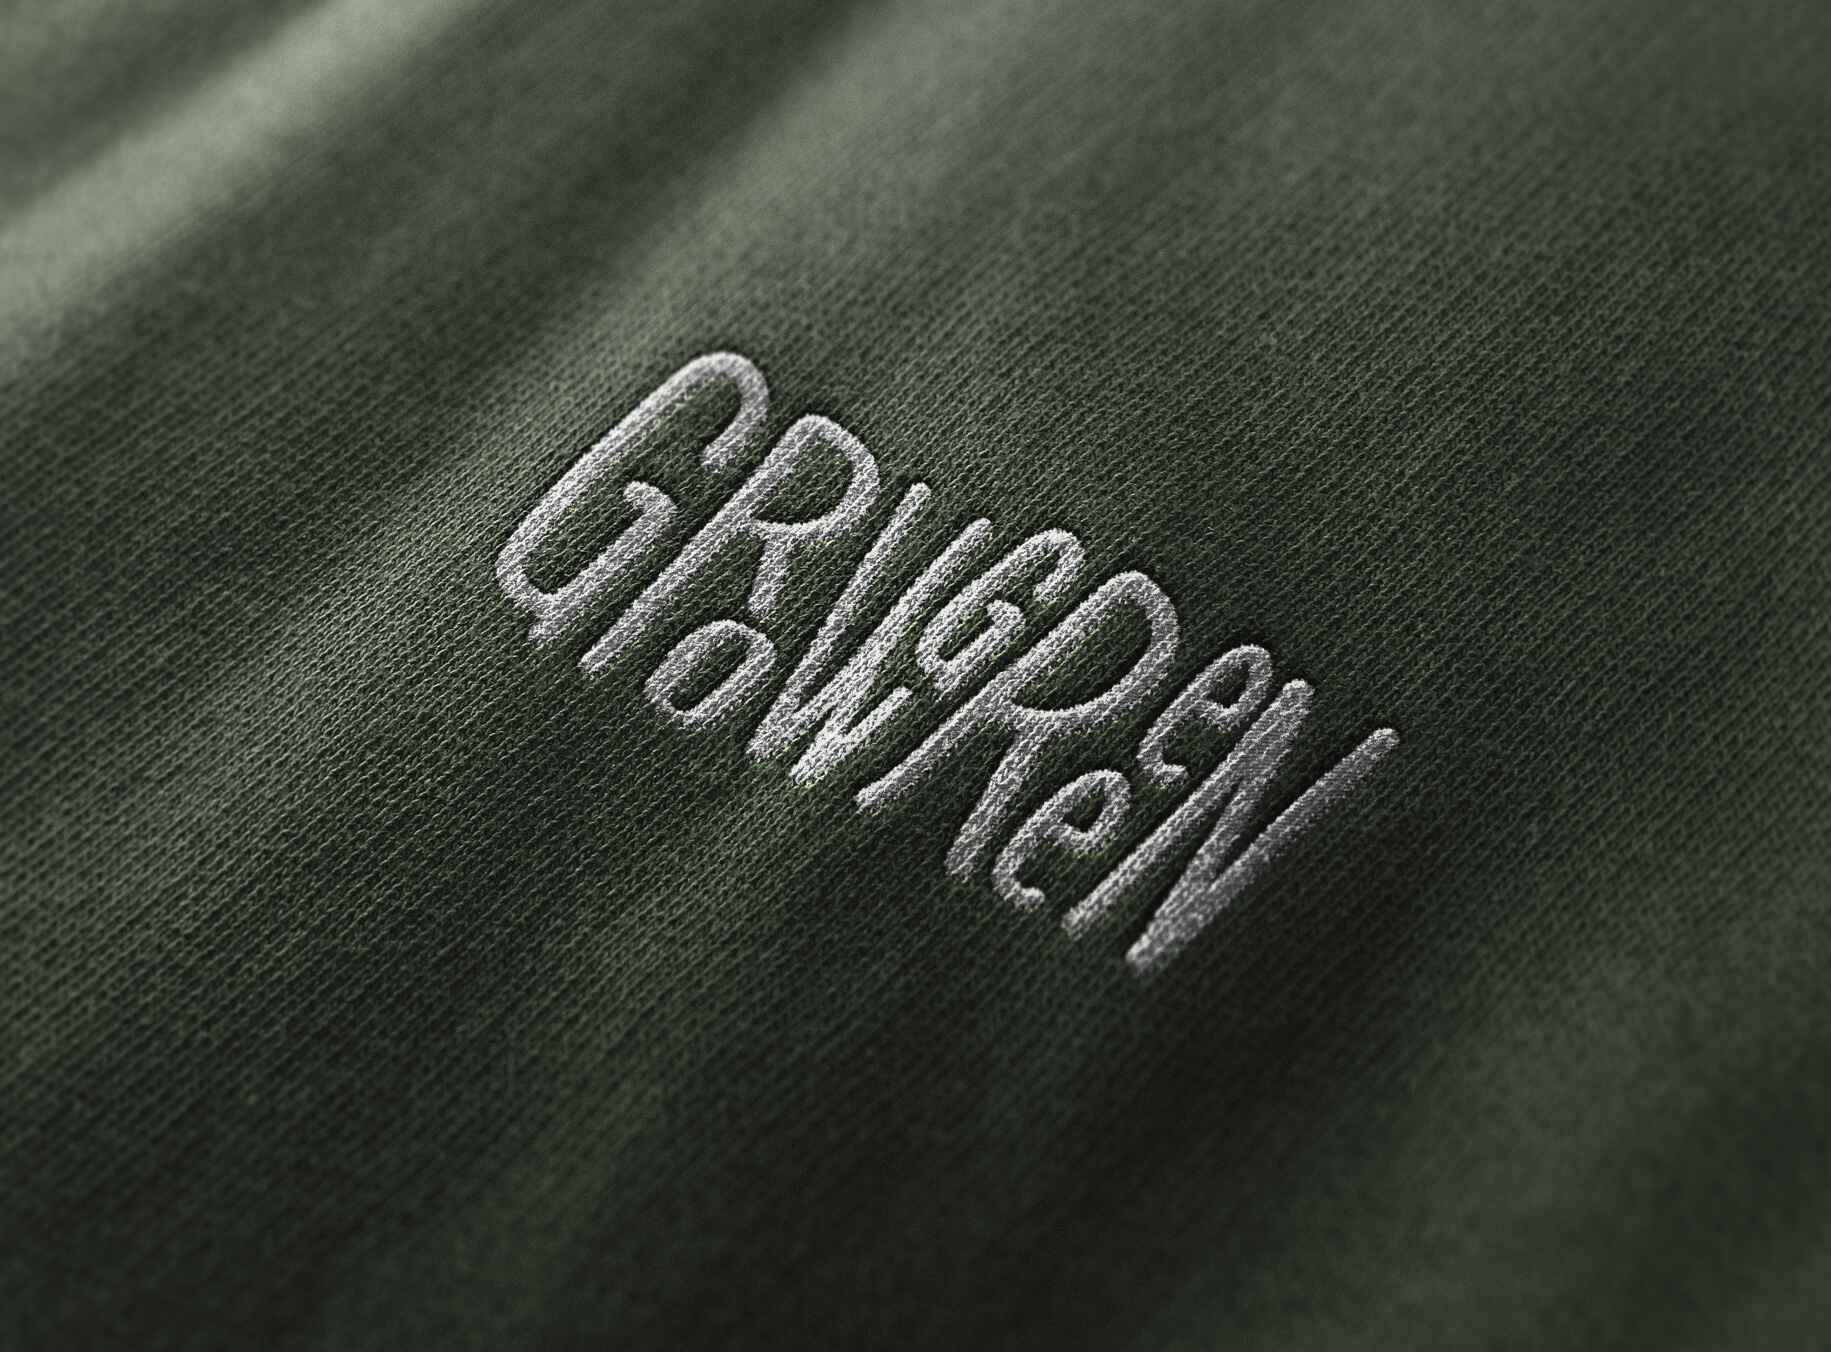
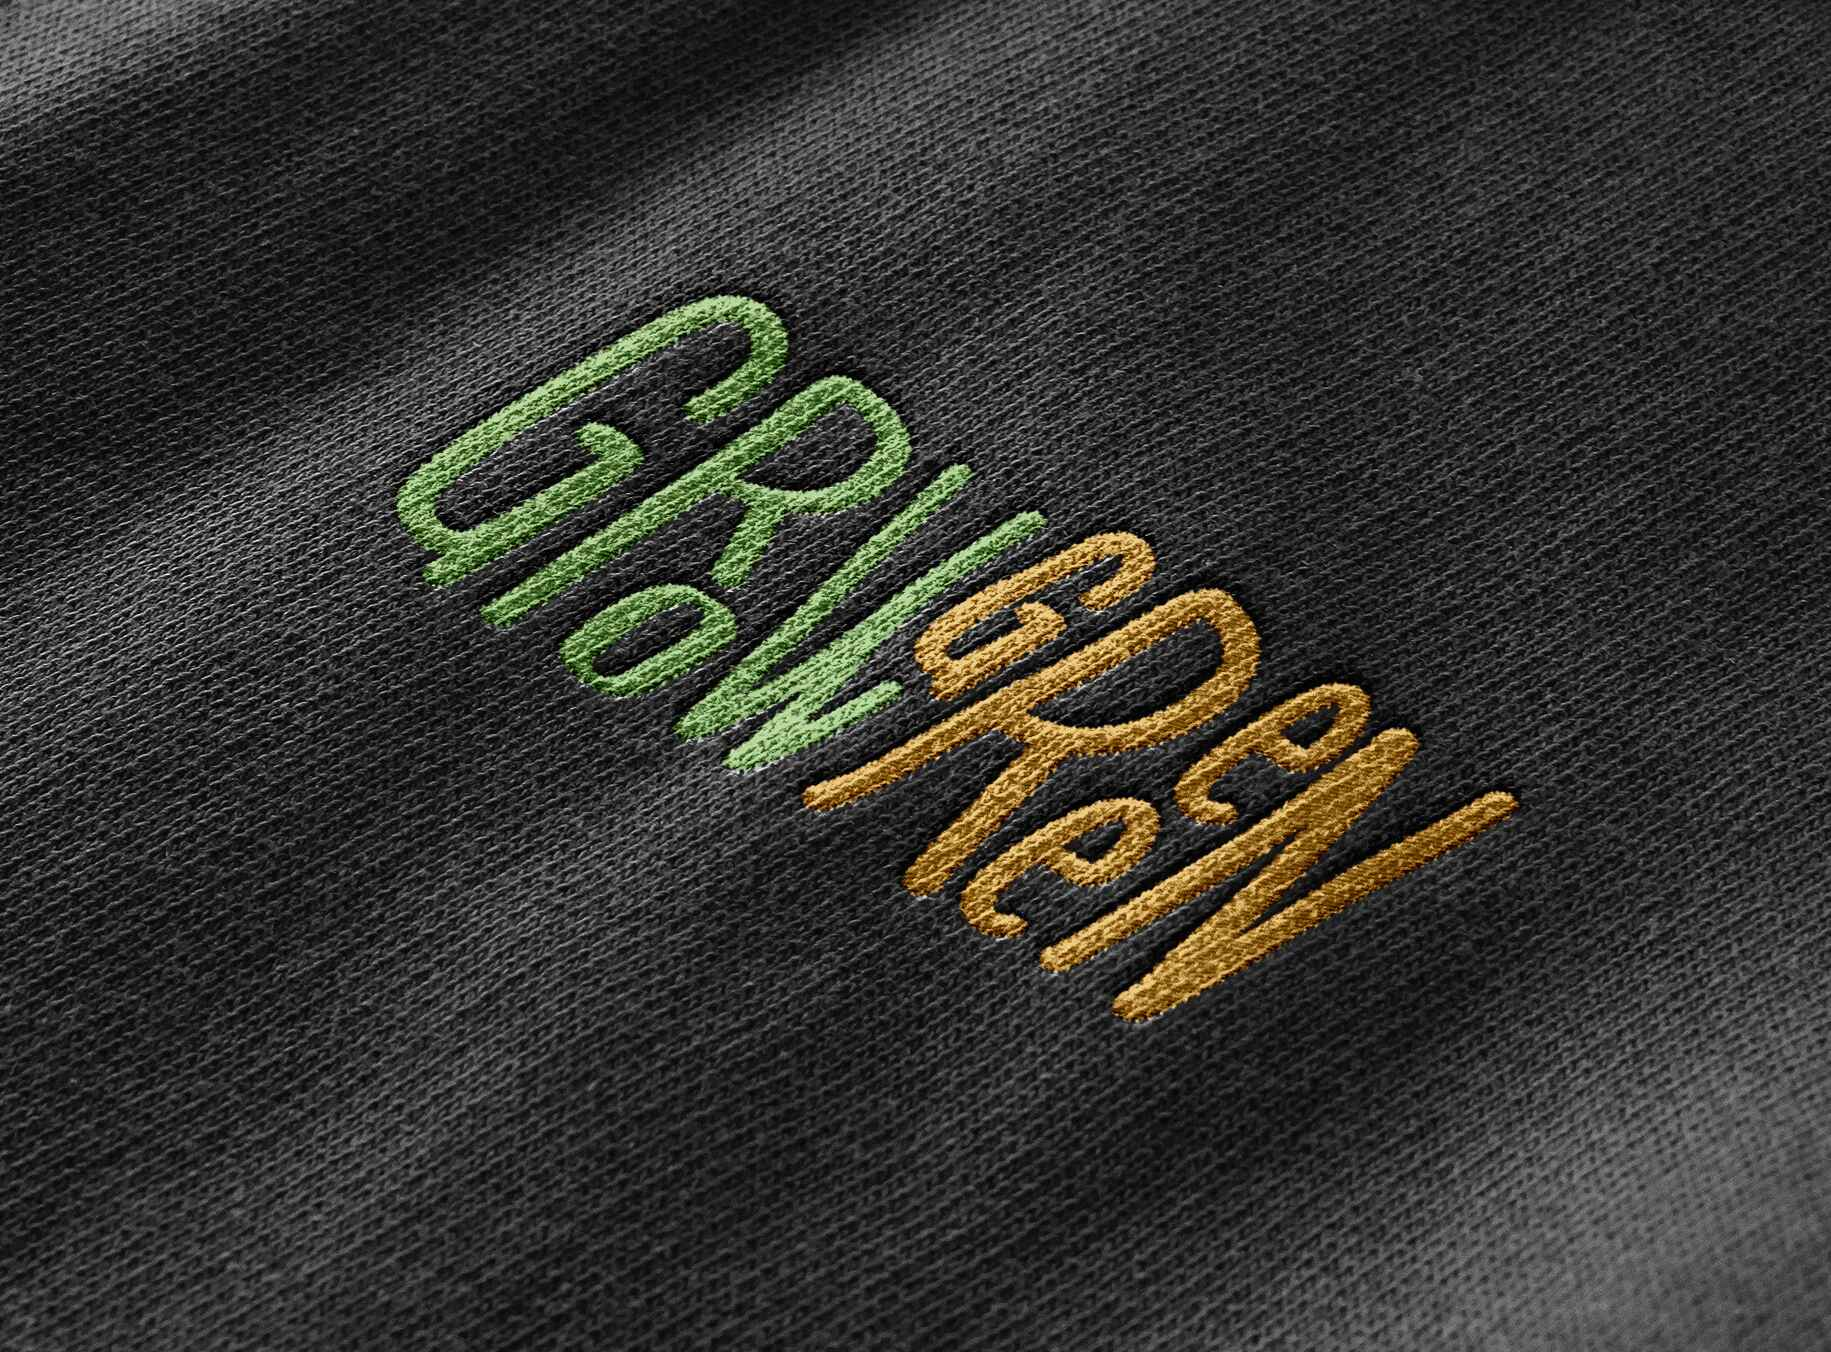
GrowGreen Project

diff --git a/index.html b/index.html
@@ -21,7 +21,7 @@
 
         <div class="tool-icons-bar">
             <div class="tool-icon-group">
-                <span class="icon-separator">|</span><span class="icon"><img src="https://www.svgrepo.com/show/135822/home-icon-silhouette.svg" alt="Home" style="filter: invert(100%) drop-shadow(3px 3px 1.5px rgba(0, 0, 0, 0.7)); width: 24px; height: 24px;"></span><span class="icon-separator">|</span><span class="icon"><img src="https://www.svgrepo.com/show/485640/brush.svg" alt="Brush" style="filter: invert(100%) drop-shadow(3px 3px 1.5px rgba(0, 0, 0, 0.7)); width: 24px; height: 24px;"></span><span class="icon"><svg xmlns="http://www.w3.org/2000/svg" viewBox="0 0 24 24" fill="currentColor" style="width: 24px; height: 24px;"><path d="M7 10l5 5 5-5z"/></svg></span><span class="icon-separator">|</span><span class="icon"><div style="display: flex; flex-direction: column; align-items: center; gap: 2px;"><img src="https://www.svgrepo.com/show/535262/circle.svg" alt="Circle" style="filter: invert(100%) drop-shadow(3px 3px 1.5px rgba(0, 0, 0, 0.7)); width: 18px; height: 18px;"><span style="font-size: 10px;">23</span></div></span><span class="icon"><svg xmlns="http://www.w3.org/2000/svg" viewBox="0 0 24 24" fill="currentColor" style="width: 24px; height: 24px;"><path d="M7 10l5 5 5-5z"/></svg></span><span class="icon"><img src="https://www.svgrepo.com/show/26369/paint-tool.svg" alt="Paint Tool" style="filter: invert(100%) drop-shadow(3px 3px 1.5px rgba(0, 0, 0, 0.7)); width: 24px; height: 24px;"></span><span class="icon-separator">|</span><span class="icon">Mode: <div style="background-color: white; color: black; padding: 2px 5px; border-radius: 3px; display: inline-flex; align-items: center; gap: 5px;">Normal <svg class="dropdown-arrow" xmlns="http://www.w3.org/2000/svg" viewBox="0 0 24 24" fill="black" style="width: 16px; height: 16px;"><path d="M7 10l5 5 5-5z"/></svg></div></span><span class="icon-separator">|</span><span class="icon">Opacity: <div style="background-color: white; color: black; padding: 2px 5px; border-radius: 3px; display: inline-flex; align-items: center; gap: 5px;">66% <svg class="dropdown-arrow" xmlns="http://www.w3.org/2000/svg" viewBox="0 0 24 24" fill="black" style="width: 16px; height: 16px;"><path d="M7 10l5 5 5-5z"/></svg></div></span><span class="icon-separator">|</span><span class="icon">Flow: <div style="background-color: white; color: black; padding: 2px 5px; border-radius: 3px; display: inline-flex; align-items: center; gap: 5px;">88% <svg class="dropdown-arrow" xmlns="http://www.w3.org/2000/svg" viewBox="0 0 24 24" fill="black" style="width: 16px; height: 16px;"><path d="M7 10l5 5 5-5z"/></svg></div></span><span class="icon-separator">|</span><span class="icon">Smoothing: <div style="background-color: white; color: black; padding: 2px 5px; border-radius: 3px; display: inline-flex; align-items: center; gap: 5px;">10% <svg class="dropdown-arrow" xmlns="http://www.w3.org/2000/svg" viewBox="0 0 24 24" fill="black" style="width: 16px; height: 16px;"><path d="M7 10l5 5 5-5z"/></svg></div></span><span class="icon-separator">|</span><span class="icon">Angle: <div style="background-color: white; color: black; padding: 2px 5px; border-radius: 3px; display: inline-flex; align-items: center; gap: 5px;">0° <svg class="dropdown-arrow" xmlns="http://www.w3.org/2000/svg" viewBox="0 0 24 24" fill="black" style="width: 16px; height: 16px;"><path d="M7 10l5 5 5-5z"/></svg></div></span><span class="icon"><img src="https://www.svgrepo.com/show/383430/angle.svg" alt="Angle" style="filter: invert(100%) drop-shadow(3px 3px 1.5px rgba(0, 0, 0, 0.7)); width: 24px; height: 24px;"></span><span class="icon-separator">|</span><span class="icon"><img src="https://www.svgrepo.com/show/486391/cogwheel-filled.svg" alt="Settings" style="filter: invert(100%) drop-shadow(3px 3px 1.5px rgba(0, 0, 0, 0.7)); width: 24px; height: 24px;"></span><span class="icon"><svg xmlns="http://www.w3.org/2000/svg" viewBox="0 0 24 24" fill="currentColor"><path d="M7 10l5 5 5-5z"/></svg></span>
+                <span class="icon-separator">|</span><span class="icon"><img src="https://www.svgrepo.com/show/135822/home-icon-silhouette.svg" alt="Home" style="filter: invert(100%) drop-shadow(3px 3px 1.5px rgba(0, 0, 0, 0.7)); width: 24px; height: 24px;"></span><span class="icon-separator">|</span><span class="icon"><img src="https://www.svgrepo.com/show/485640/brush.svg" alt="Brush" style="filter: invert(100%) drop-shadow(3px 3px 1.5px rgba(0, 0, 0, 0.7)); width: 24px; height: 24px;"></span><span class="icon"><svg xmlns="http://www.w3.org/2000/svg" viewBox="0 0 24 24" fill="currentColor" style="width: 24px; height: 24px;"><path d="M7 10l5 5 5-5z"/></svg></span><span class="icon-separator">|</span><span class="icon"><div style="display: flex; flex-direction: column; align-items: center; gap: 2px;"><img src="https://www.svgrepo.com/show/535262/circle.svg" alt="Circle" style="filter: invert(100%) drop-shadow(3px 3px 1.5px rgba(0, 0, 0, 0.7)); width: 18px; height: 18px;"></div></span><span class="icon"><svg xmlns="http://www.w3.org/2000/svg" viewBox="0 0 24 24" fill="currentColor" style="width: 24px; height: 24px;"><path d="M7 10l5 5 5-5z"/></svg></span><span class="icon"><img src="https://www.svgrepo.com/show/26369/paint-tool.svg" alt="Paint Tool" style="filter: invert(100%) drop-shadow(3px 3px 1.5px rgba(0, 0, 0, 0.7)); width: 24px; height: 24px;"></span><span class="icon-separator">|</span><span class="icon">Mode: <div style="background-color: white; color: black; padding: 2px 5px; border-radius: 3px; display: inline-flex; align-items: center; gap: 5px;">Normal <svg class="dropdown-arrow" xmlns="http://www.w3.org/2000/svg" viewBox="0 0 24 24" fill="black" style="width: 16px; height: 16px;"><path d="M7 10l5 5 5-5z"/></svg></div></span><span class="icon-separator">|</span><span class="icon">Opacity: <div style="background-color: white; color: black; padding: 2px 5px; border-radius: 3px; display: inline-flex; align-items: center; gap: 5px;">66% <svg class="dropdown-arrow" xmlns="http://www.w3.org/2000/svg" viewBox="0 0 24 24" fill="black" style="width: 16px; height: 16px;"><path d="M7 10l5 5 5-5z"/></svg></div></span><span class="icon-separator">|</span><span class="icon">Flow: <div style="background-color: white; color: black; padding: 2px 5px; border-radius: 3px; display: inline-flex; align-items: center; gap: 5px;">88% <svg class="dropdown-arrow" xmlns="http://www.w3.org/2000/svg" viewBox="0 0 24 24" fill="black" style="width: 16px; height: 16px;"><path d="M7 10l5 5 5-5z"/></svg></div></span><span class="icon-separator">|</span><span class="icon">Smoothing: <div style="background-color: white; color: black; padding: 2px 5px; border-radius: 3px; display: inline-flex; align-items: center; gap: 5px;">10% <svg class="dropdown-arrow" xmlns="http://www.w3.org/2000/svg" viewBox="0 0 24 24" fill="black" style="width: 16px; height: 16px;"><path d="M7 10l5 5 5-5z"/></svg></div></span><span class="icon-separator">|</span><span class="icon">Angle: <div style="background-color: white; color: black; padding: 2px 5px; border-radius: 3px; display: inline-flex; align-items: center; gap: 5px;">0° <svg class="dropdown-arrow" xmlns="http://www.w3.org/2000/svg" viewBox="0 0 24 24" fill="black" style="width: 16px; height: 16px;"><path d="M7 10l5 5 5-5z"/></svg></div></span><span class="icon"><img src="https://www.svgrepo.com/show/383430/angle.svg" alt="Angle" style="filter: invert(100%) drop-shadow(3px 3px 1.5px rgba(0, 0, 0, 0.7)); width: 24px; height: 24px;"></span><span class="icon-separator">|</span><span class="icon"><img src="https://www.svgrepo.com/show/486391/cogwheel-filled.svg" alt="Settings" style="filter: invert(100%) drop-shadow(3px 3px 1.5px rgba(0, 0, 0, 0.7)); width: 24px; height: 24px;"></span><span class="icon"><svg xmlns="http://www.w3.org/2000/svg" viewBox="0 0 24 24" fill="currentColor"><path d="M7 10l5 5 5-5z"/></svg></span>
             </div>
         </div>
 

diff --git a/projects.js b/projects.js
@@ -78,4 +78,20 @@ const projects = [
         technologies: ["Photoshop", "Illustrator"],
         link: ""
     },
+    {
+        id: 6,
+        title: "Eco Clothing Brand “GrowGreen”",
+        category: "Branding",
+        thumbnail: "./pictures/growgreen-thumbnail.jpg",
+        fullImage: "./pictures/growgreen-full.jpg",
+        resolutionPx: "2727x2186px",
+        resolutionPpi: "150ppi",
+        fileName: "branding_growgreen.psd",
+        fileSize: "5.2MB",
+        overview: "GrowGreen is an eco-conscious fashion brand that merges sustainability with bold, nature-inspired design. Focused on environmentally friendly materials and packaging, the brand aims to appeal to a new generation of conscious consumers who care about both the planet and personal style. With a vibrant and confident visual identity, GrowGreen positions itself as both ethical and expressive—proving that going green doesn’t mean toning things down.",
+        conceptVisualLanguage: "The visual identity of GrowGreen is driven by biomorphic fingerprint-like patterns that represent individuality, nature, and organic growth. The brand uses a vivid dual-color palette—fresh leafy green and earthy orange—to symbolize harmony between nature and bold self-expression. The wordmark features alternating letter colors to reinforce the fusion of ‘Grow’ and ‘Green’. Packaging is natural and minimal, using kraft paper bags and boxes with printed pattern accents. Apparel and accessories incorporate the graphic system consistently, creating a unified and recognizable brand presence. Typography is clean and slightly playful, maintaining a modern yet grounded tone. The overall aesthetic is earthy, tactile, and unmistakably fresh.",
+        deliverablesIncluded: "<ul> <li>Logo & Visual Identity (typographic wordmark + fingerprint pattern system)</li> <li>Eco Apparel Line (T-shirts with printed yoke patterns and sustainable tags)</li> <li>Branded Stationery (letterhead, business cards, envelopes with graphic accents)</li> <li>Custom Packaging (kraft paper bags, eco boxes, stickers, and tags)</li> <li>Merchandise (embroidered caps, branded accessories)</li> <li>Color System: Green (growth, nature), Orange (energy, creativity)</li> <li>Slogan / Tone: 'Wear your roots. Grow your impact.'</li> </ul>",
+        technologies: ["Photoshop", "Illustrator"],
+        link: ""
+    },
 ];
